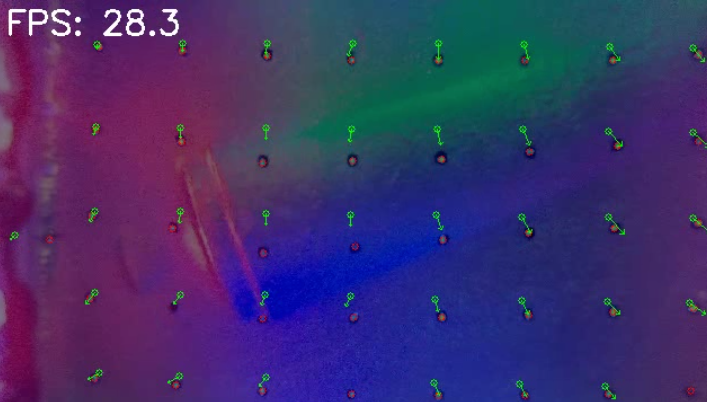
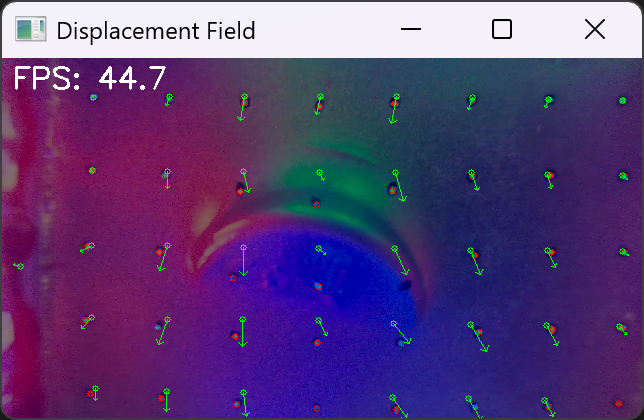
update readme

diff --git a/predict_displacement.py b/predict_displacement.py
@@ -378,7 +378,7 @@ def main():
         overlay = draw_keypoints(overlay, c)
         overlay = draw_keypoints(overlay, c0, color=(0, 255, 0))
         if d is not None:
-            overlay = draw_displacement_vectors(overlay, c0, d*10)
+            overlay = draw_displacement_vectors(overlay, c0, d*4)
         if SHOW_FPS:
             now = time.time()
             fps = 1.0 / max(1e-6, now - prev_time)
@@ -397,12 +397,12 @@ def main():
             if time.time() - last_show >= 1.0 / MAX_DISPLAY_FPS:
                 # cv2.imshow("Frame", frame)
                 cv2.imshow("Heatmap", heat_color)
-                cv2.imshow("Overlay", overlay)
+                cv2.imshow("Displacement Field", overlay)
                 last_show = time.time()
         else:
             # cv2.imshow("Frame", frame)
             cv2.imshow("Heatmap", heat_color)
-            cv2.imshow("Overlay", overlay)
+            cv2.imshow("Displacement Field", overlay)
 
         if writer is not None:
             writer.write(overlay)

diff --git a/centernet/centernet_model.py b/centernet/centernet_model.py
@@ -86,3 +86,7 @@ class CenterNetModel(nn.Module):
     def forward(self, x: torch.Tensor) -> torch.Tensor:
         feat = self.backbone(x)
         return self.head(feat) # logits
+
+def build_model():
+    num_classes = 1   # ← change if your model was trained with >1 heatmap
+    return CenterNetModel(num_classes=num_classes)

diff --git a/README.md b/README.md
@@ -1,6 +1,11 @@
-# CenterNet Heatmap Prediction for Marker Detection in Tactile Sensing
+# A Novel Image Processing Pipeline for Marker Extraction and Displacement Field Estimation
+
+> Abstract: We successfully combine the CenterNet heatmap prediction and VoxelMorph 2D image registration to form a novel pipeline that is used for marker extraction in the vision-based tactile sensors (VTBS). We can extract the displacement field of markers through this proposed pipeline, making tactile force estimation much easier and more robust.
 
 We are trying to predict a heatmap of pseudo-probability distribution of markers, from the raw image of a tactile sensor, for example, the [D-Sight](https://github.com/0x15c/D-Sight). This repo is still under construction; however, we have obtained some promising results from [CenterNet](http://arxiv.org/abs/1904.07850).
+
+
+
 
 
 We use ResNet-9 as the backbone for feature extraction; it's a lightweight alternative, producing only ~11.5 MB model. We believe inference can be accelerated using light models while feature extraction ability is preserved, due to our rather simple sensor output (we are not expecting the model to recognise complex features, such as an animal). Here is a [link](https://github.com/Moddy2024/ResNet-9.git) to the ResNet-9 implementation.
